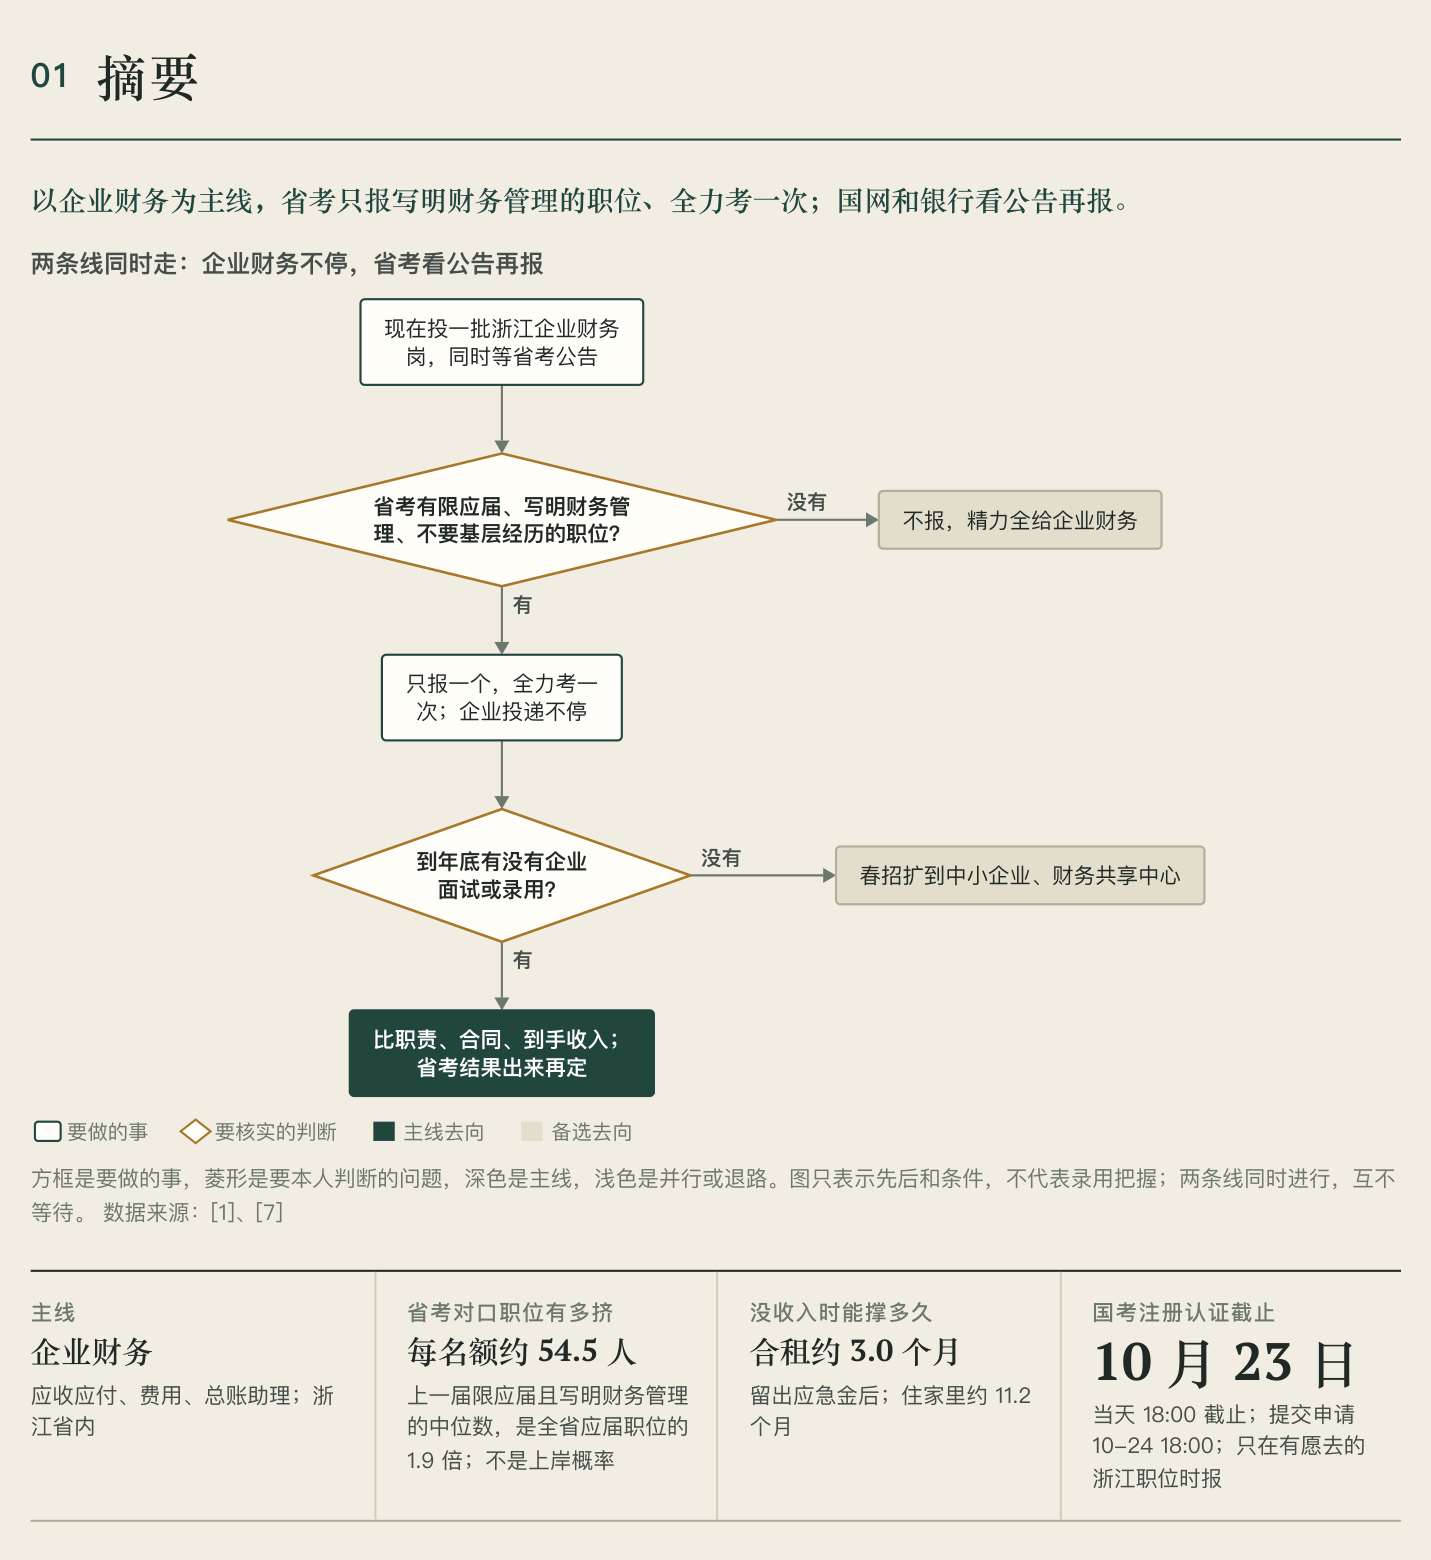
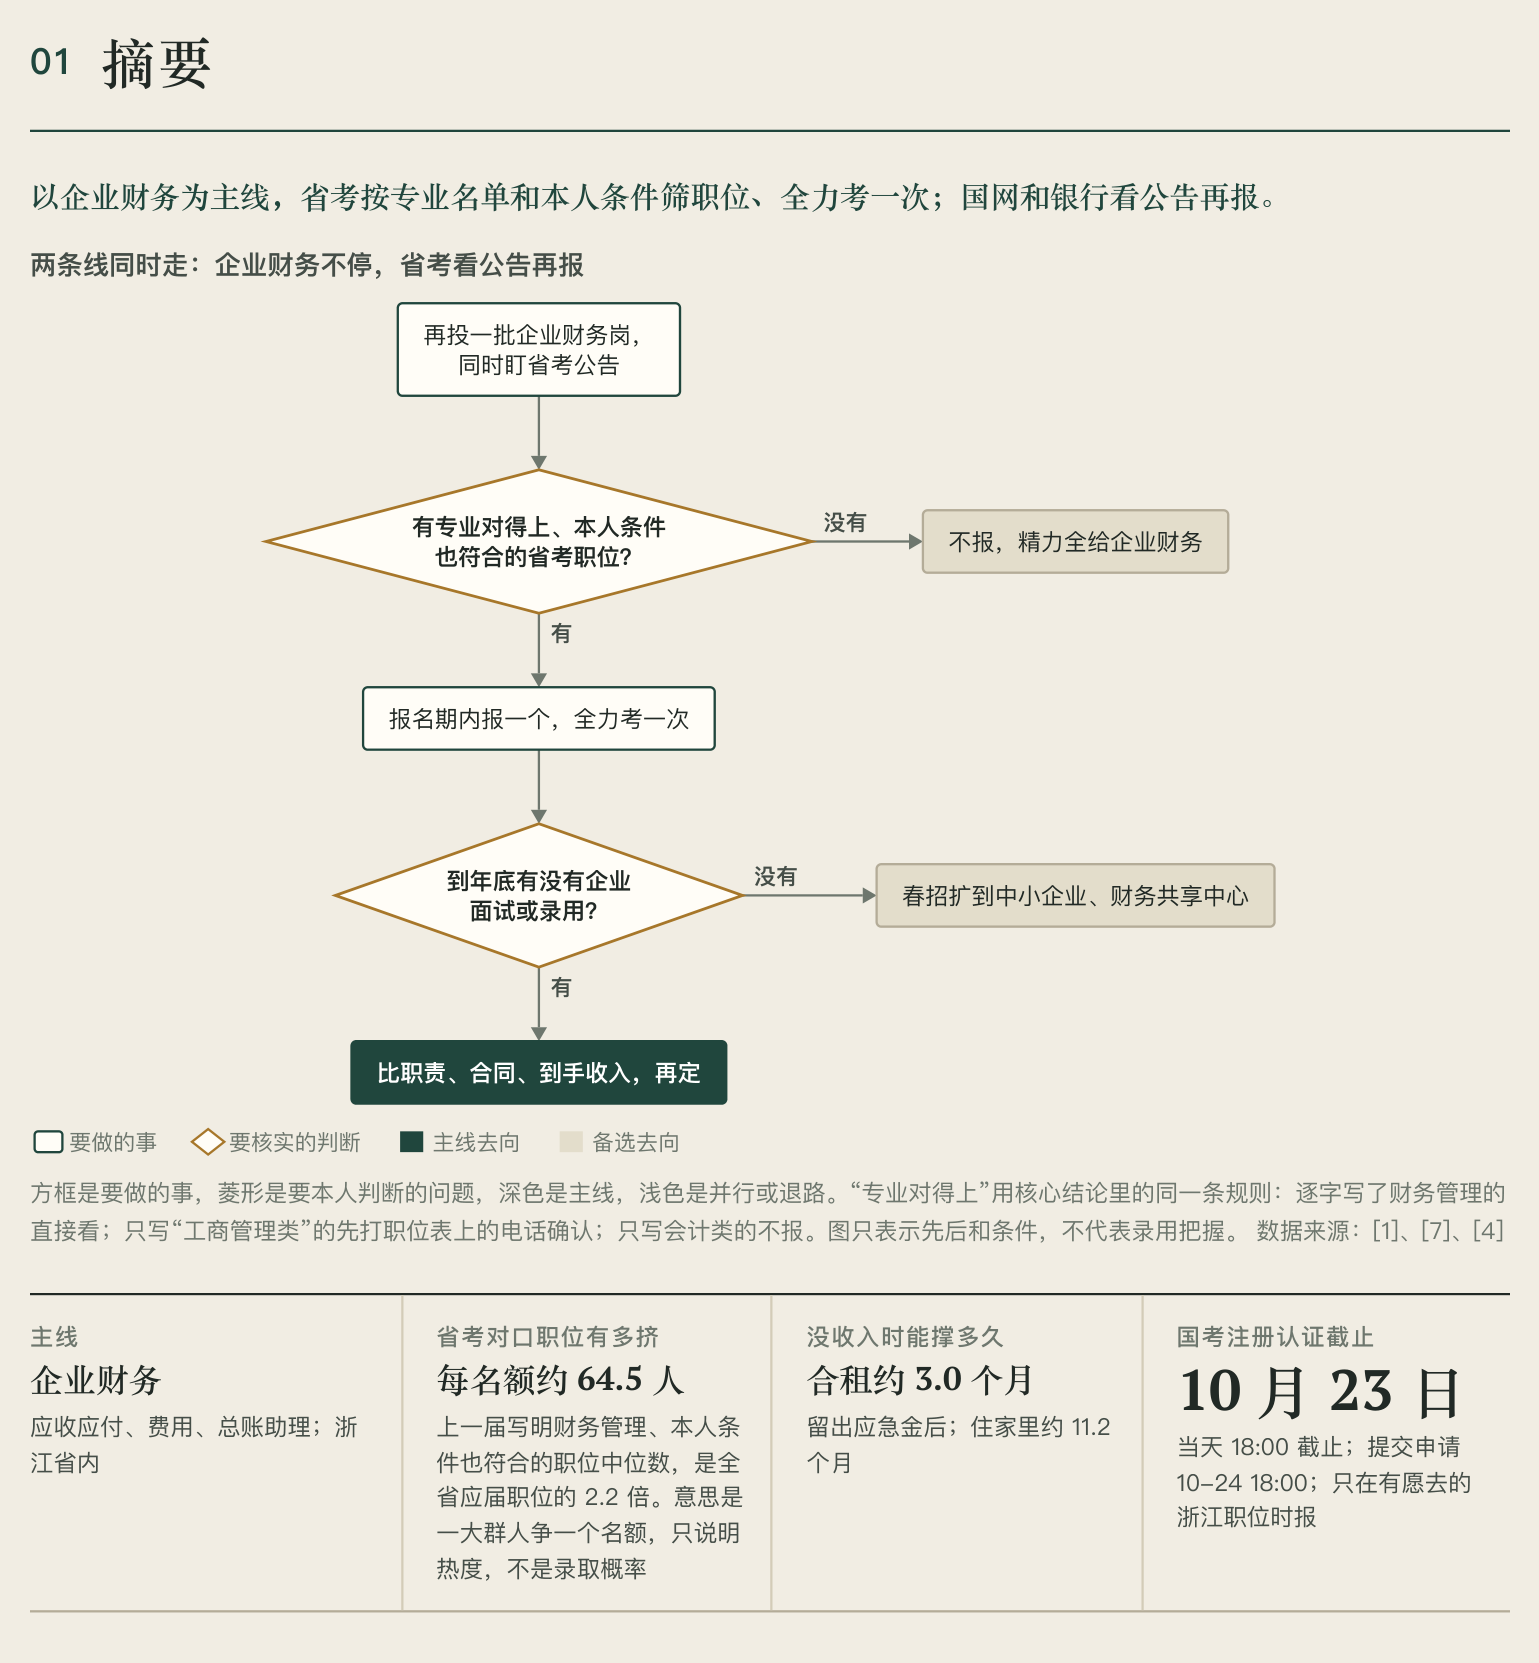
README: refresh flagship images and numbers after approved reviews

Changed region(s): [[0.0, 0.0, 0.9839, 0.9846], [0.5535, 0.5231, 0.8302, 0.5846], [0.1537, 0.8308, 0.2152, 0.9231]]

diff --git a/README.md b/README.md
@@ -43,7 +43,7 @@
 
 > 十月模考 349 分，想留江苏读计算机。一志愿报哪所，没考上怎么办？
 
-- 把模考放进苏大、河海上一届录取者的初试分布里比：苏大计算机学硕是“够一够”，河海普通方向复试线一年从 308 涨到 350，是“冒险”。
+- 把模考放进苏大、河海上一届录取者的初试分布里比：苏大计算机学硕和同科目的软件工程学硕都是“够一够”，软件工程位置更好，接不接受由他自己定；河海普通方向复试线一年从 308 涨到 350，是“冒险”。
 - 科目不同、名单没公开或录取人数太少的学校不硬定档，所以报告直说：**六校里没有数据可靠的稳妥档，保底靠出分后调剂和春招**，并写清什么情况下换路。
 
 <img src="assets/readme/case-xiaozhou.png" width="780" alt="小舟的报告摘要：从报名到明年春天每一步往哪走">
@@ -54,7 +54,7 @@
 
 > 快毕业了还没有 offer。我想做企业财务，爸妈想让我考公、进银行。
 
-- 用浙江省考上一届的职位表和缴费人数看：限应届、写明财务管理的职位，每个名额约 54.5 人报名，是全省应届职位的 1.9 倍。这说明更挤，不是上岸概率。
+- 用浙江省考上一届的职位表逐个对照她的性别、政治面貌等条件：限应届、写明财务管理、她也能报的有 84 个，每个名额约 64.5 人报名，是全省应届职位的 2.2 倍。这说明更挤，不是上岸概率。
 - 建议以企业财务为主线，省考只报对口职位、全力考一次；先算清没收入能撑几个月，再和父母谈“考一次、定边界”。
 
 <img src="assets/readme/case-xiaotong.png" width="780" alt="小桐的报告摘要：企业财务为主线，省考看公告再报">
